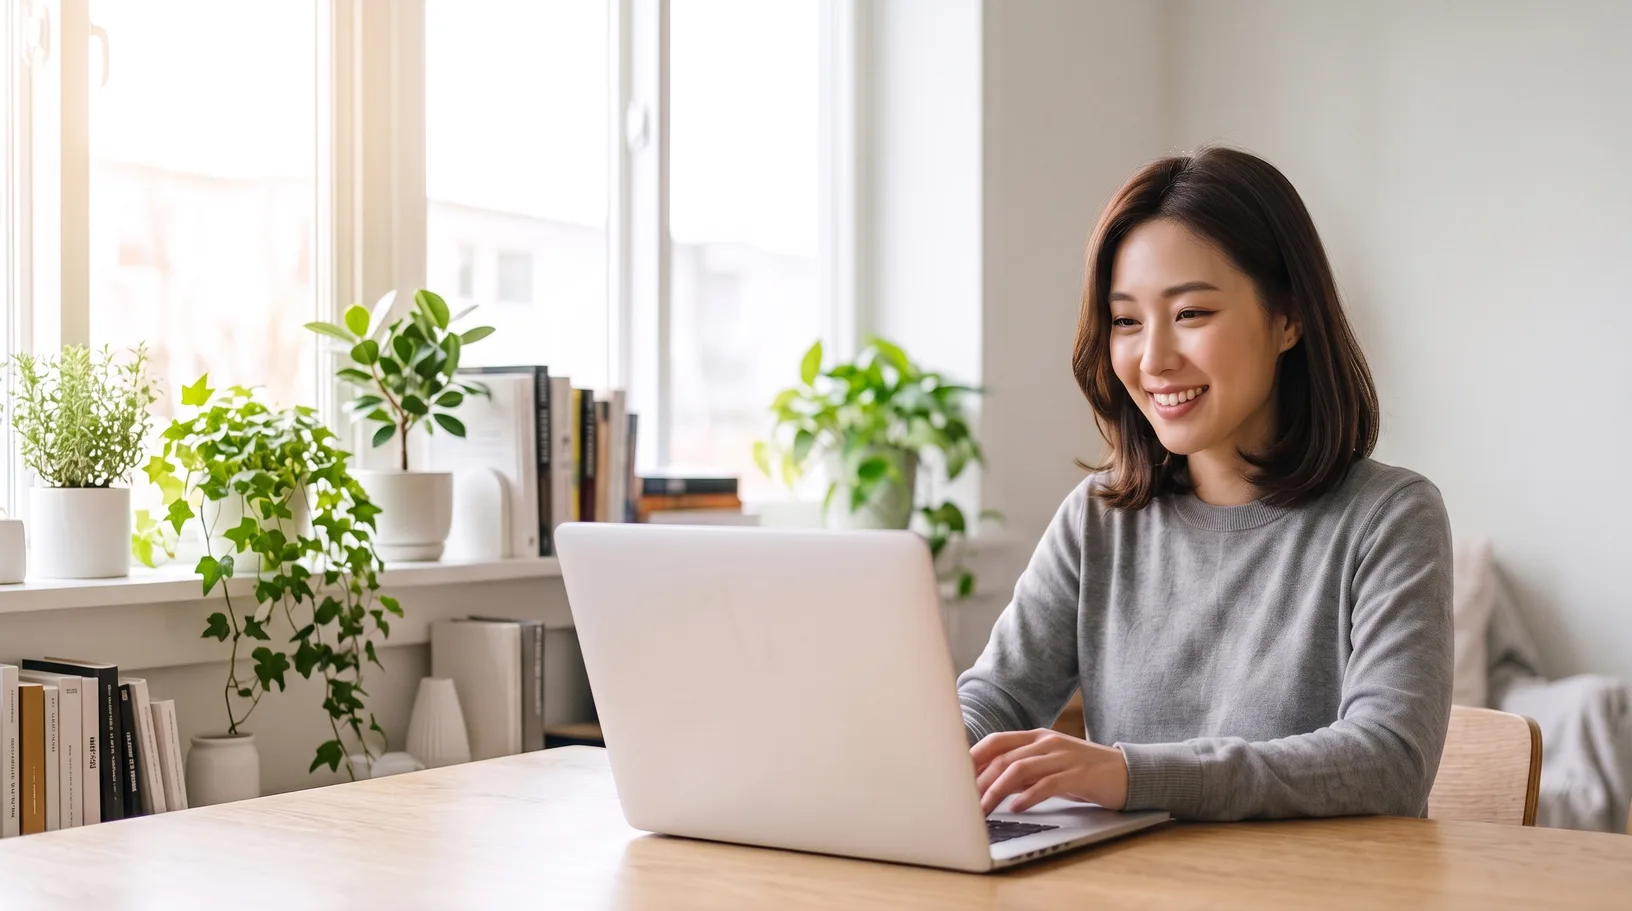
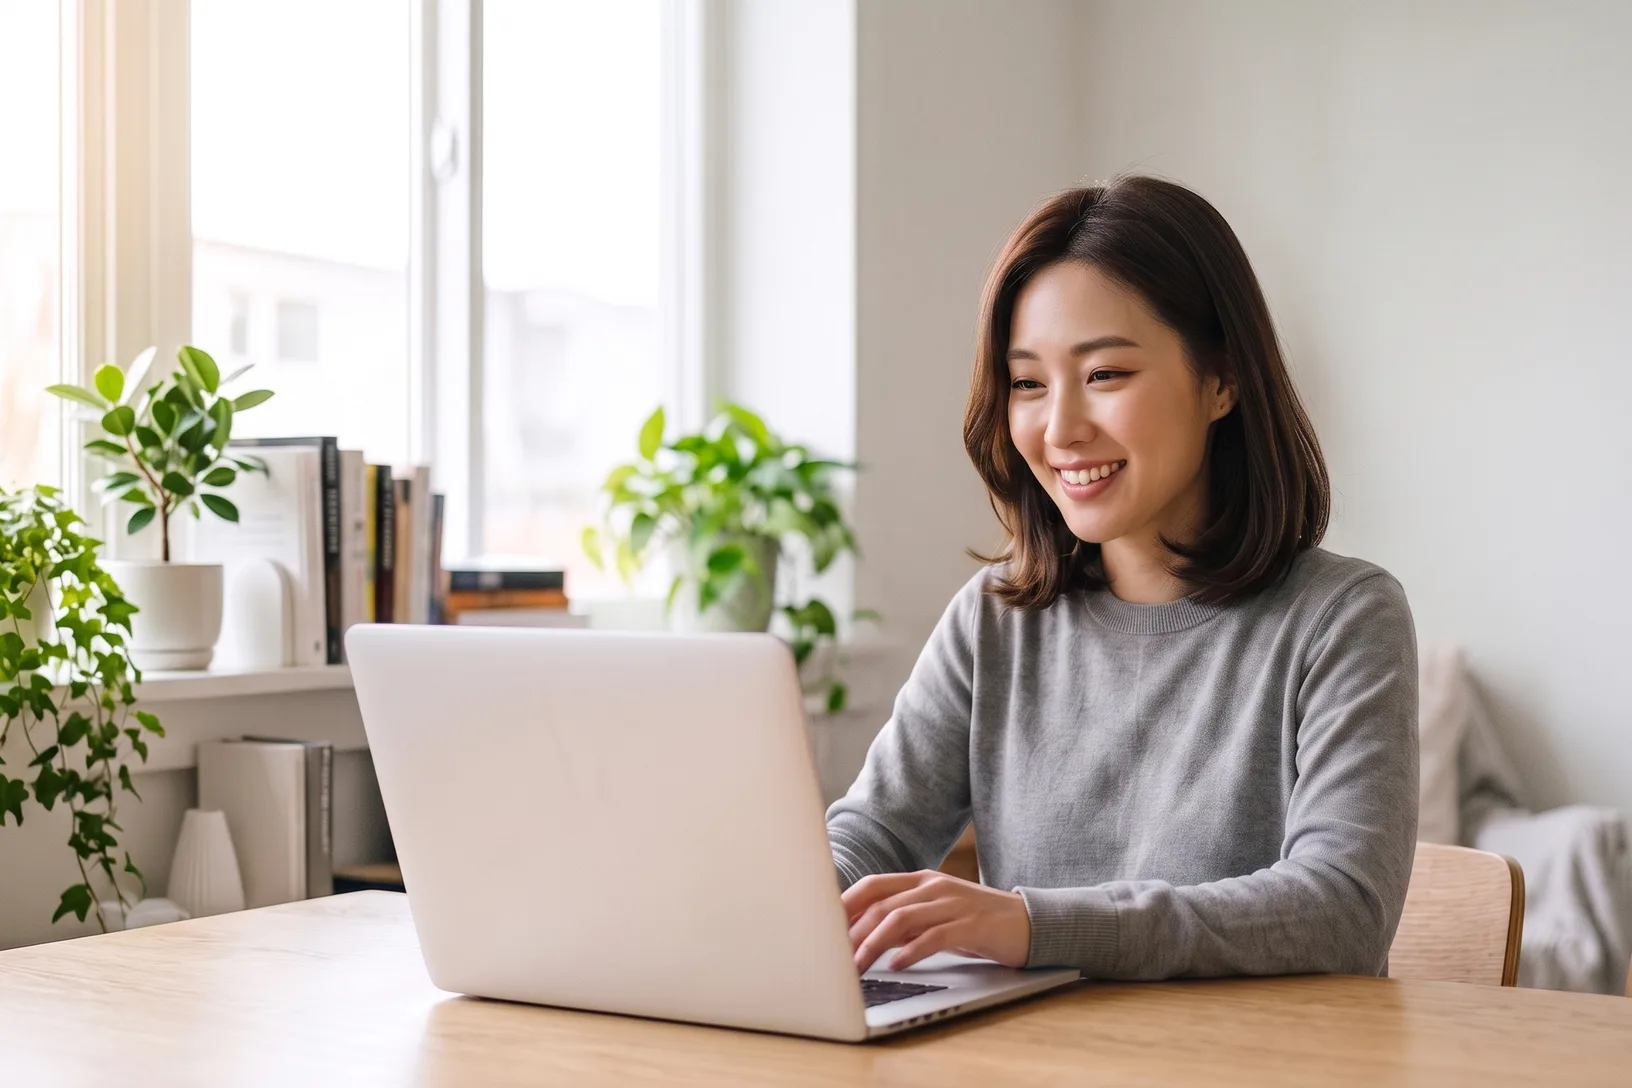
한국어 히어로 사진을 3:2 로 — 언어 토글 때 높이 출렁임 제거 (사용자)
KO 원본(1.79:1)의 왼쪽 빈 창가 448px 만 잘라 EN 과 같은 3:2 (인물·손·책상·세로 무손실). 두 언어 높이 동일.

Claude-Session: https://claude.ai/code/session_015ntztHY16dwUNcsGi34qxS

diff --git a/index.html b/index.html
@@ -955,11 +955,12 @@ html{scrollbar-gutter:stable;}
          첫 화면의 가장 큰 그림(LCP)이라 lazy 금지 · fetchpriority=high. 원본 = new landing design\ -->
     <div class="hero-demo" aria-hidden="true">
       <!-- 한국어 화면 = 한국인 사진 / 영어 화면 = 기존 사진 (사용자 2026-08-27). .lang-ko/.lang-en 이 서로를 숨긴다.
-           두 사진 모두 원본 프레임 통째(크롭 0) — KO 는 1.79:1 라 EN(3:2)보다 조금 낮게 나온다(의도). -->
+           두 사진 모두 3:2 로 같은 높이 — 언어 토글 때 높이가 출렁이면 안 된다(사용자).
+           KO 원본은 1.79:1 이라 «왼쪽 빈 창가 448px 만» 잘라 3:2 로 맞춤(인물·손·책상·세로 무손실). -->
       <img class="hero-photo ko" src="hero-study-ko.webp"
            srcset="hero-study-ko.webp 816w, hero-study-ko-2x.webp 1632w"
            sizes="(max-width:900px) 92vw, 60vw"
-           width="816" height="455" alt="" fetchpriority="high">
+           width="816" height="544" alt="" fetchpriority="high">
       <img class="hero-photo en" src="hero-study.webp"
            srcset="hero-study.webp 816w, hero-study-2x.webp 1632w"
            sizes="(max-width:900px) 92vw, 60vw"
